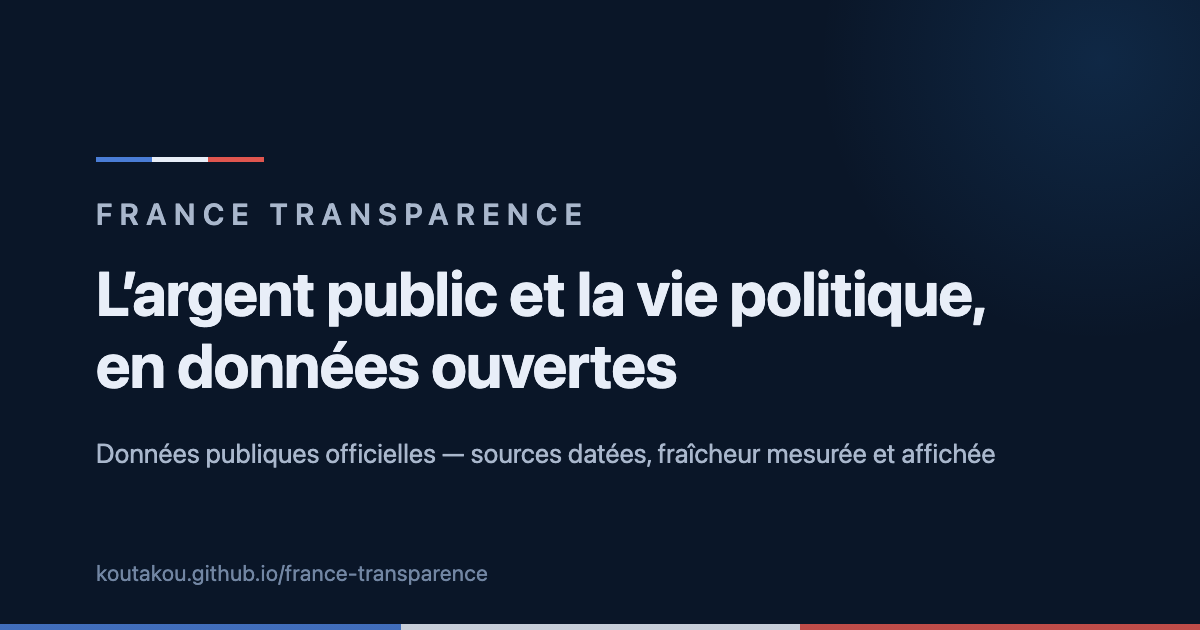
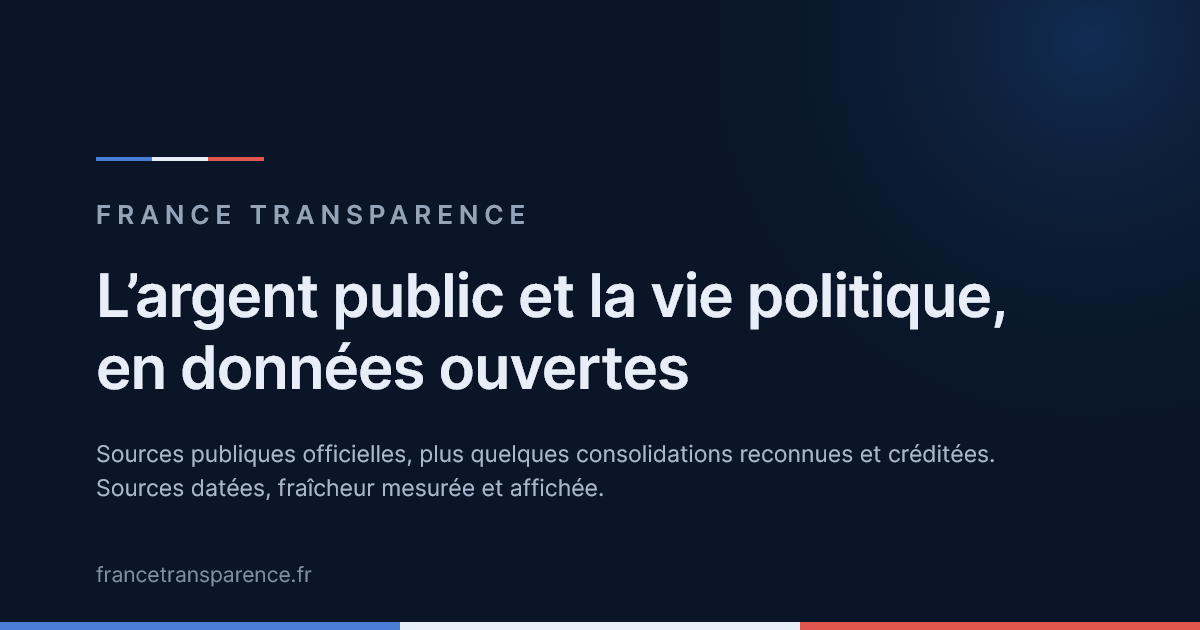
Promesse sur les sources : le texte alternatif, /elus, les fiches d'élu et l'image de partage disaient encore « données publiques officielles » seules, et l'image portait l'ancien domaine

diff --git a/app/src/app/elus/[id]/page.tsx b/app/src/app/elus/[id]/page.tsx
@@ -81,8 +81,8 @@ export async function generateMetadata({
   const nomComplet = `${elu.prenom ?? ""} ${elu.nom}`.trim();
   const description =
     elu.uid_an || elu.matricule_senat
-      ? `Mandats, activité parlementaire et déclarations HATVP de ${nomComplet}, à partir des données publiques officielles (AN, Sénat, HATVP, RNE).`
-      : `Mandats et déclarations HATVP de ${nomComplet}, à partir des données publiques officielles (RNE, HATVP).`;
+      ? `Mandats, activité parlementaire et déclarations HATVP de ${nomComplet}, à partir de sources publiques officielles, plus quelques consolidations reconnues et créditées (AN, Sénat, HATVP, RNE, et pour un député les scores Datan crédités).`
+      : `Mandats et déclarations HATVP de ${nomComplet}, à partir de sources publiques officielles, plus quelques consolidations reconnues et créditées (pour cette fiche : RNE, HATVP).`;
   // `metadonneesFicheProfil` et non `metadonneesPage` : cette page décrit une
   // PERSONNE, son `og:type` vaut donc « profile » — ce que son JSON-LD dit
   // déjà (`ProfilePage` + `Person`), et que la carte de partage taisait.

diff --git a/app/src/app/elus/page.tsx b/app/src/app/elus/page.tsx
@@ -44,7 +44,7 @@ import { jsonLdPage, metadonneesPage } from "@/lib/seo";
 const CHEMIN = "/elus/";
 const TITRE = "Élus & institutions";
 const DESCRIPTION =
-  "Députés, sénateurs, maires et présidents d’exécutifs locaux : mandats, groupes, votes nominaux et déclarations HATVP, à partir des données officielles datées.";
+  "Députés, sénateurs, maires et présidents d’exécutifs locaux : mandats, groupes, votes nominaux et déclarations HATVP, à partir de sources publiques officielles, plus quelques consolidations reconnues et créditées, toutes datées.";
 
 export const metadata: Metadata = metadonneesPage({
   chemin: CHEMIN,

diff --git a/app/src/lib/seo.ts b/app/src/lib/seo.ts
@@ -112,7 +112,7 @@ export const IMAGE_PARTAGE = {
   url: `${SITE_URL}/og.png`,
   width: 1200,
   height: 630,
-  alt: "France Transparence — données publiques officielles",
+  alt: "France Transparence : sources publiques officielles, plus quelques consolidations reconnues et créditées",
 };
 
 /**
